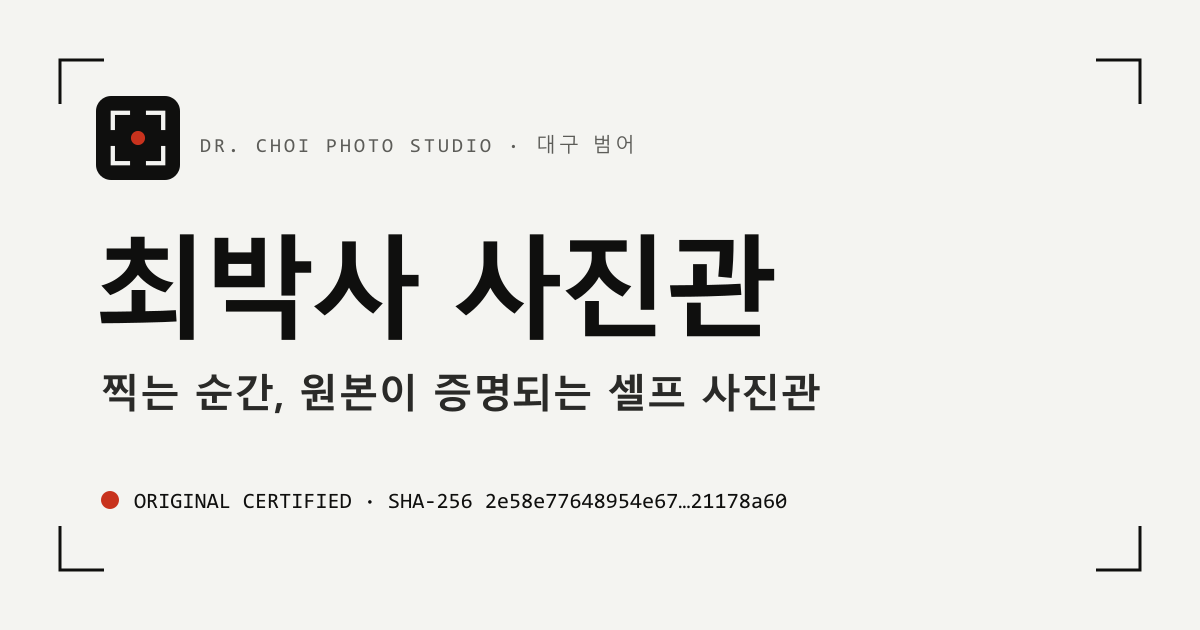
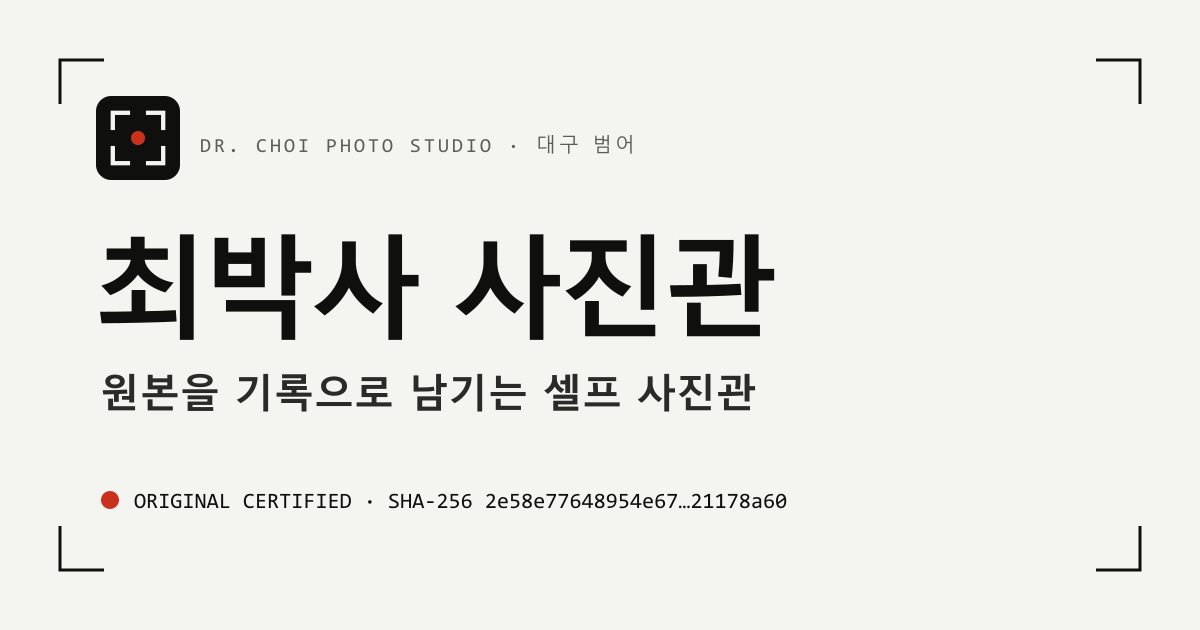
최박사 사진관 문구를 '원본을 기록으로 남기는 셀프 사진관'으로 + '태어난 순간' 서술 정리
- 사진관 하단 7곳·메인 제목·title/og:title·공유 이미지: "찍는 순간, 원본이 증명되는" → "원본을 기록으로 남기는"
- 이야기(왜 원본은 희소한가): '태어난 순간의 기록' → '처음 등록한 기록' (공개된 정의 문장과 맞춤)
- authenticity '발급 순간' → '발급할 때', README 한 줄
- 사진관 og-card 재생성(체험 샘플 파일·지문은 그대로)

Changed region(s): [[0.0617, 0.573, 0.6783, 0.6635]]

diff --git a/public/stories/why-originals-are-scarce.html b/public/stories/why-originals-are-scarce.html
@@ -142,7 +142,7 @@
         <p>복제가 원본에서 무엇을 가져가는지는 오래된 질문입니다. 독일의 비평가 발터 벤야민은 1936년에 처음 발표된 글 「<a href="https://plato.stanford.edu/entries/benjamin/">기술복제시대의 예술작품</a>」에서, 아무리 정교한 복제품에도 빠져 있는 것이 있다고 보았습니다. 원작이 특정한 시간과 장소에 단 하나로 존재한다는 사실입니다. 그는 원작의 이 유일한 존재감을 ‘아우라’라는 말로 설명했고, 기술 복제가 그것을 약하게 만든다고 했습니다.</p>
         <p>디지털 파일에 오면 이 이야기는 한 걸음 더 나아갑니다. 필름 사진은 다시 인화할 때마다 조금씩 달라지고, 복사기로 복사한 종이는 원본보다 흐려집니다. 그런데 디지털 파일을 그대로 복사하면 사본은 원본과 비트 하나까지 같습니다. 파일만 들여다봐서는 어느 쪽이 먼저였는지 알 수 없습니다.</p>
         <p>파일의 지문도 마찬가지입니다. 지문(<span class="nw">SHA-256</span>)은 파일 내용 전체로 계산하는 64자리 값으로, 바이트가 같은 파일이면 언제 어디서 계산해도 같은 값이 나옵니다. 원본을 그대로 복사한 사본은 지문까지 원본과 같습니다. 지문은 “이 파일이 원본과 같은 바이트인가”에는 답하지만, “이 파일이 처음 만들어진 바로 그 파일인가”에는 답하지 못합니다.</p>
-        <p>그렇다면 원본을 원본으로 만드는 것은 무엇일까요. 답은 파일 바깥에 있습니다. 파일 자체가 아니라 그 파일이 태어난 순간의 기록, 곧 <strong>누가, 언제, 어떤 지문으로 처음 기록했는가</strong>입니다. 사본은 얼마든지 늘어날 수 있지만, 처음 남긴 기록은 하나뿐입니다.</p>
+        <p>그렇다면 원본을 원본으로 만드는 것은 무엇일까요. 답은 파일 바깥에 있습니다. 파일 자체가 아니라 그 파일을 처음 등록한 기록, 곧 <strong>누가, 언제, 어떤 지문으로 처음 기록했는가</strong>입니다. 사본은 얼마든지 늘어날 수 있지만, 처음 남긴 기록은 하나뿐입니다.</p>
         <blockquote><p>복제는 무한하고, 원본은 하나입니다.</p></blockquote>
 
         <h2 id="scarcity">희소성은 수량이 아니라 증명에서 나옵니다</h2>
@@ -151,7 +151,7 @@
         <p>두 방식은 기대는 곳이 다릅니다. 수량으로 만드는 희소성은 “더 만들지 않겠다”는 약속에서 나오고, 증명으로 만드는 희소성은 “처음 남긴 기록은 하나”라는 사실에서 나옵니다. 앞의 것은 수를 정하는 일이고, 뒤의 것은 기록을 남기고 보여 주는 일입니다.</p>
         <p>AI가 사진과 글, 목소리까지 만들어 내는 시대에는 그럴듯한 데이터가 점점 흔해지고, 증명할 수 있는 원본이 가장 드문 데이터가 됩니다. DataPD가 오리지널 데이터를 기록하는 이유입니다.</p>
 
-        <h2 id="how">태어나는 순간 기록하고, 누구나 확인하게 합니다</h2>
+        <h2 id="how">처음 등록할 때 기록하고, 누구나 확인하게 합니다</h2>
         <p>방법은 단순합니다. 데이터가 만들어진 바로 그때 지문을 계산하고, 누가 언제 기록했는지와 함께 남깁니다. 그 기록을 공개해 두면, 나중에 파일을 받은 사람은 누구든 스스로 지문을 계산해 기록과 대조해 볼 수 있습니다. <span class="nw">SHA-256</span>은 미국 국립표준기술연구소(NIST)의 표준 문서 <a href="https://csrc.nist.gov/pubs/fips/180-4/upd1/final">FIPS 180-4</a>에 정의된 공개 해시 함수라서, 제대로 구현된 도구라면 어느 것으로 계산해도 같은 파일에서 같은 지문이 나옵니다.</p>
         <p>여기서 꼭 기억할 점이 있습니다. 기록과 일치하는 것은 원본과 바이트 단위로 같은 파일뿐입니다. 사진 크기를 줄이거나, 메신저가 사진을 다시 압축해 보내거나, 화면을 캡처하면 파일이 새로 만들어져 지문이 달라집니다. 편집 앱에서 열었다가 다시 저장하는 것만으로도 달라질 수 있습니다. 눈으로는 똑같아 보여도 그렇습니다. 그렇다고 그 파일이 조작됐다는 뜻은 아닙니다. 원본과 같은 파일이 아니라는 뜻일 뿐입니다.</p>
         <p>그래서 원본 파일 자체를 받아 손대지 않고 보관하는 일이 중요합니다. 보정은 복사본으로 하세요. 원본임을 보여 줘야 할 때는 파일을 줄이거나 다시 저장하지 않고 그대로 보내야 합니다. 메일에 사진을 첨부할 때 크기를 줄일지 묻는다면 원본 크기를 고르세요. 기록은 한 번 남기면 되지만, 그 기록과 맞춰 볼 원본 파일은 가진 사람이 지켜야 합니다.</p>
@@ -219,7 +219,7 @@
         </div>
 
         <p>샘플 원본을 그대로 복사한 파일도 일치합니다. 바이트가 같기 때문입니다. 반대로 밝기만 4% 올린 보정본은 눈으로는 거의 구별되지 않지만 지문이 전혀 달라 일치하지 않습니다. 사본이 몇 개가 되든, 공개 레지스트리에서 이 지문을 처음 기록한 인증서는 2026년 9월 25일 15시에 발급된 DRC-2026-000001 하나입니다. 다만 이 발급 일시는 스튜디오 레지스트리의 기록입니다. 스튜디오와 별개로 시각을 확인할 수 있는 기록은 블록체인 원본 기록을 한 경우에만 남고, 이 샘플은 시범 운영 단계라 아직 블록체인에 기록하기 전입니다. DataPD가 말하는 원본의 희소성은 바로 이 첫 기록에 있습니다.</p>
-        <p>그러니 복제를 막지 않아도 됩니다. 처음 태어난 순간을 기록해 두면 사본이 아무리 늘어나도 원본의 첫 기록은 하나로 남고, 어떤 파일이 그 기록과 같은지는 누구나 확인할 수 있습니다. DataPD는 다음 오리지널 데이터도 이렇게 기록할 준비를 하고 있습니다.</p>
+        <p>그러니 복제를 막지 않아도 됩니다. 처음 등록한 기록을 남겨 두면 사본이 아무리 늘어나도 원본의 첫 기록은 하나로 남고, 어떤 파일이 그 기록과 같은지는 누구나 확인할 수 있습니다. DataPD는 다음 오리지널 데이터도 이렇게 기록할 준비를 하고 있습니다.</p>
 
       </div>
     </div>

diff --git a/public/drchoistudio/index.html b/public/drchoistudio/index.html
@@ -3,7 +3,7 @@
 <head>
 <meta charset="UTF-8" />
 <meta name="viewport" content="width=device-width, initial-scale=1.0" />
-<title>최박사 사진관 — 찍는 순간, 원본이 증명되는 셀프 사진관 | 대구 범어</title>
+<title>최박사 사진관 — 원본을 기록으로 남기는 셀프 사진관 | 대구 범어</title>
 <meta name="description" content="대구 수성구 범어동의 셀프 사진관. 증명·프로필·가족·반려동물·제품 사진을 직접 찍고, 고른 원본 파일마다 원본 인증서(SHA-256 지문)를 발급할 예정입니다. 원본 파일과 같은지 누구나 확인할 수 있습니다. 오픈 준비 중." />
 <link rel="canonical" href="https://www.datapd.ai/drchoistudio/" />
 <meta name="theme-color" content="#F4F4F1" media="(prefers-color-scheme: light)" />
@@ -13,7 +13,7 @@
 <link rel="apple-touch-icon" href="/drchoistudio/apple-touch-icon.png" />
 <meta property="og:type" content="website" />
 <meta property="og:site_name" content="최박사 사진관" />
-<meta property="og:title" content="최박사 사진관 — 찍는 순간, 원본이 증명되는 셀프 사진관" />
+<meta property="og:title" content="최박사 사진관 — 원본을 기록으로 남기는 셀프 사진관" />
 <meta property="og:description" content="대구 수성구 범어동의 셀프 사진관. 증명·프로필·가족·반려동물·제품 사진을 직접 찍고, 고른 원본 파일마다 원본 인증서(SHA-256 지문)를 발급할 예정입니다. 원본 파일과 같은지 누구나 확인할 수 있습니다. 오픈 준비 중." />
 <meta property="og:url" content="https://www.datapd.ai/drchoistudio/" />
 <meta property="og:image" content="https://www.datapd.ai/drchoistudio/og-card.png" />
@@ -67,7 +67,7 @@
     <div class="wrap split">
       <div class="stack hero-copy">
         <p class="eyebrow"><span class="rec" aria-hidden="true"></span>대구 범어 · 셀프 사진관</p>
-        <h1 class="display" id="hero-title">찍는 순간,<br>원본이 증명됩니다.</h1>
+        <h1 class="display" id="hero-title">원본을<br>기록으로 남깁니다.</h1>
         <p class="lead">리모컨과 큰 모니터를 보며 직접 찍는 셀프 사진관입니다. 찍은 컷을 고르면 그 자리에서 원본 파일마다 지문(SHA-256)을 계산해 원본 인증서를 발급합니다. AI 합성과 보정이 흔한 요즘에도, 그 사진이 스튜디오가 발급한 원본 파일 그대로인지 누구나 확인할 수 있습니다.</p>
         <div class="cluster">
           <a class="btn btn-accent" href="/drchoistudio/verify.html">원본 확인해 보기</a>
@@ -354,7 +354,7 @@
         <svg class="mark" viewBox="0 0 24 24" aria-hidden="true"><path d="M3 9V3h6M15 3h6v6M21 15v6h-6M9 21H3v-6" fill="none" stroke="currentColor" stroke-width="2"/><circle cx="12" cy="12" r="3" fill="var(--accent)"/></svg>
         <span class="wm">최박사 사진관<small>DR. CHOI PHOTO STUDIO</small></span><span class="sr-only"> 홈</span>
       </a>
-      <p>찍는 순간, 원본이 증명되는 셀프 사진관.</p>
+      <p>원본을 기록으로 남기는 셀프 사진관.</p>
       <p><a href="/">DataPD</a>가 직접 운영하는 첫 스튜디오입니다. <a href="/live-archive.html" lang="en">LIVE ARCHIVE</a>를 처음 적용할 곳입니다.</p>
       <p style="margin-top:14px"><span class="status">오픈 준비 중</span></p>
     </div>

diff --git a/public/drchoistudio/authenticity.html b/public/drchoistudio/authenticity.html
@@ -119,7 +119,7 @@
       <div class="stack">
         <p class="eyebrow">지문 · SHA-256</p>
         <h2 class="h2" id="fp-title">사진의 지문, SHA-256</h2>
-        <p class="body">디지털 사진은 결국 숫자로 된 파일입니다. 파일 전체를 SHA-256이라는 공개 표준 계산에 넣으면 64자리 문자열 하나가 나옵니다. 이 값을 파일의 <strong>지문</strong>(해시)이라고 부릅니다. 원본 인증서에는 발급 순간의 원본 파일에서 계산한 이 지문이 적힙니다.</p>
+        <p class="body">디지털 사진은 결국 숫자로 된 파일입니다. 파일 전체를 SHA-256이라는 공개 표준 계산에 넣으면 64자리 문자열 하나가 나옵니다. 이 값을 파일의 <strong>지문</strong>(해시)이라고 부릅니다. 원본 인증서에는 발급할 때 원본 파일에서 계산한 이 지문이 적힙니다.</p>
       </div>
 
       <div class="grid grid-3">
@@ -436,7 +436,7 @@
         <svg class="mark" viewBox="0 0 24 24" aria-hidden="true"><path d="M3 9V3h6M15 3h6v6M21 15v6h-6M9 21H3v-6" fill="none" stroke="currentColor" stroke-width="2"/><circle cx="12" cy="12" r="3" fill="var(--accent)"/></svg>
         <span class="wm">최박사 사진관<small>DR. CHOI PHOTO STUDIO</small></span><span class="sr-only"> 홈</span>
       </a>
-      <p>찍는 순간, 원본이 증명되는 셀프 사진관.</p>
+      <p>원본을 기록으로 남기는 셀프 사진관.</p>
       <p><a href="/">DataPD</a>가 직접 운영하는 첫 스튜디오입니다. <a href="/live-archive.html" lang="en">LIVE ARCHIVE</a>를 처음 적용할 곳입니다.</p>
       <p style="margin-top:14px"><span class="status">오픈 준비 중</span></p>
     </div>

diff --git a/public/drchoistudio/certificate.html b/public/drchoistudio/certificate.html
@@ -229,7 +229,7 @@
         <svg class="mark" viewBox="0 0 24 24" aria-hidden="true"><path d="M3 9V3h6M15 3h6v6M21 15v6h-6M9 21H3v-6" fill="none" stroke="currentColor" stroke-width="2"/><circle cx="12" cy="12" r="3" fill="var(--accent)"/></svg>
         <span class="wm">최박사 사진관<small>DR. CHOI PHOTO STUDIO</small></span><span class="sr-only"> 홈</span>
       </a>
-      <p>찍는 순간, 원본이 증명되는 셀프 사진관.</p>
+      <p>원본을 기록으로 남기는 셀프 사진관.</p>
       <p><a href="/">DataPD</a>가 직접 운영하는 첫 스튜디오입니다. <a href="/live-archive.html" lang="en">LIVE ARCHIVE</a>를 처음 적용할 곳입니다.</p>
       <p style="margin-top:14px"><span class="status">오픈 준비 중</span></p>
     </div>

diff --git a/public/drchoistudio/guide.html b/public/drchoistudio/guide.html
@@ -364,7 +364,7 @@
         <svg class="mark" viewBox="0 0 24 24" aria-hidden="true"><path d="M3 9V3h6M15 3h6v6M21 15v6h-6M9 21H3v-6" fill="none" stroke="currentColor" stroke-width="2"/><circle cx="12" cy="12" r="3" fill="var(--accent)"/></svg>
         <span class="wm">최박사 사진관<small>DR. CHOI PHOTO STUDIO</small></span><span class="sr-only"> 홈</span>
       </a>
-      <p>찍는 순간, 원본이 증명되는 셀프 사진관.</p>
+      <p>원본을 기록으로 남기는 셀프 사진관.</p>
       <p><a href="/">DataPD</a>가 직접 운영하는 첫 스튜디오입니다. <a href="/live-archive.html" lang="en">LIVE ARCHIVE</a>를 처음 적용할 곳입니다.</p>
       <p style="margin-top:14px"><span class="status">오픈 준비 중</span></p>
     </div>

diff --git a/public/drchoistudio/privacy.html b/public/drchoistudio/privacy.html
@@ -325,7 +325,7 @@
         <svg class="mark" viewBox="0 0 24 24" aria-hidden="true"><path d="M3 9V3h6M15 3h6v6M21 15v6h-6M9 21H3v-6" fill="none" stroke="currentColor" stroke-width="2"/><circle cx="12" cy="12" r="3" fill="var(--accent)"/></svg>
         <span class="wm">최박사 사진관<small>DR. CHOI PHOTO STUDIO</small></span><span class="sr-only"> 홈</span>
       </a>
-      <p>찍는 순간, 원본이 증명되는 셀프 사진관.</p>
+      <p>원본을 기록으로 남기는 셀프 사진관.</p>
       <p><a href="/">DataPD</a>가 직접 운영하는 첫 스튜디오입니다. <a href="/live-archive.html" lang="en">LIVE ARCHIVE</a>를 처음 적용할 곳입니다.</p>
       <p style="margin-top:14px"><span class="status">오픈 준비 중</span></p>
     </div>

diff --git a/public/drchoistudio/terms.html b/public/drchoistudio/terms.html
@@ -244,7 +244,7 @@
         <svg class="mark" viewBox="0 0 24 24" aria-hidden="true"><path d="M3 9V3h6M15 3h6v6M21 15v6h-6M9 21H3v-6" fill="none" stroke="currentColor" stroke-width="2"/><circle cx="12" cy="12" r="3" fill="var(--accent)"/></svg>
         <span class="wm">최박사 사진관<small>DR. CHOI PHOTO STUDIO</small></span><span class="sr-only"> 홈</span>
       </a>
-      <p>찍는 순간, 원본이 증명되는 셀프 사진관.</p>
+      <p>원본을 기록으로 남기는 셀프 사진관.</p>
       <p><a href="/">DataPD</a>가 직접 운영하는 첫 스튜디오입니다. <a href="/live-archive.html" lang="en">LIVE ARCHIVE</a>를 처음 적용할 곳입니다.</p>
       <p style="margin-top:14px"><span class="status">오픈 준비 중</span></p>
     </div>

diff --git a/public/drchoistudio/verify.html b/public/drchoistudio/verify.html
@@ -153,7 +153,7 @@
         <svg class="mark" viewBox="0 0 24 24" aria-hidden="true"><path d="M3 9V3h6M15 3h6v6M21 15v6h-6M9 21H3v-6" fill="none" stroke="currentColor" stroke-width="2"/><circle cx="12" cy="12" r="3" fill="var(--accent)"/></svg>
         <span class="wm">최박사 사진관<small>DR. CHOI PHOTO STUDIO</small></span><span class="sr-only"> 홈</span>
       </a>
-      <p>찍는 순간, 원본이 증명되는 셀프 사진관.</p>
+      <p>원본을 기록으로 남기는 셀프 사진관.</p>
       <p><a href="/">DataPD</a>가 직접 운영하는 첫 스튜디오입니다. <a href="/live-archive.html" lang="en">LIVE ARCHIVE</a>를 처음 적용할 곳입니다.</p>
       <p style="margin-top:14px"><span class="status">오픈 준비 중</span></p>
     </div>

diff --git a/README.md b/README.md
@@ -2,7 +2,7 @@
 
 복제는 무한하고, 원본은 하나입니다.
 
-DataPD는 오리지널 데이터를 기록합니다. 데이터가 처음 만들어지는 순간 지문(SHA-256)을 남겨,
+DataPD는 오리지널 데이터를 기록합니다. 데이터를 처음 등록할 때 지문(SHA-256)을 남겨,
 그것이 원본인지 누구나 스스로 확인할 수 있게 합니다. DataPD가 말하는 희소성은 수량이나 가격이 아니라
 **증명할 수 있는 유일성** — 원본이 하나라는 사실을 누구나 확인할 수 있게 하는 것입니다.
 
